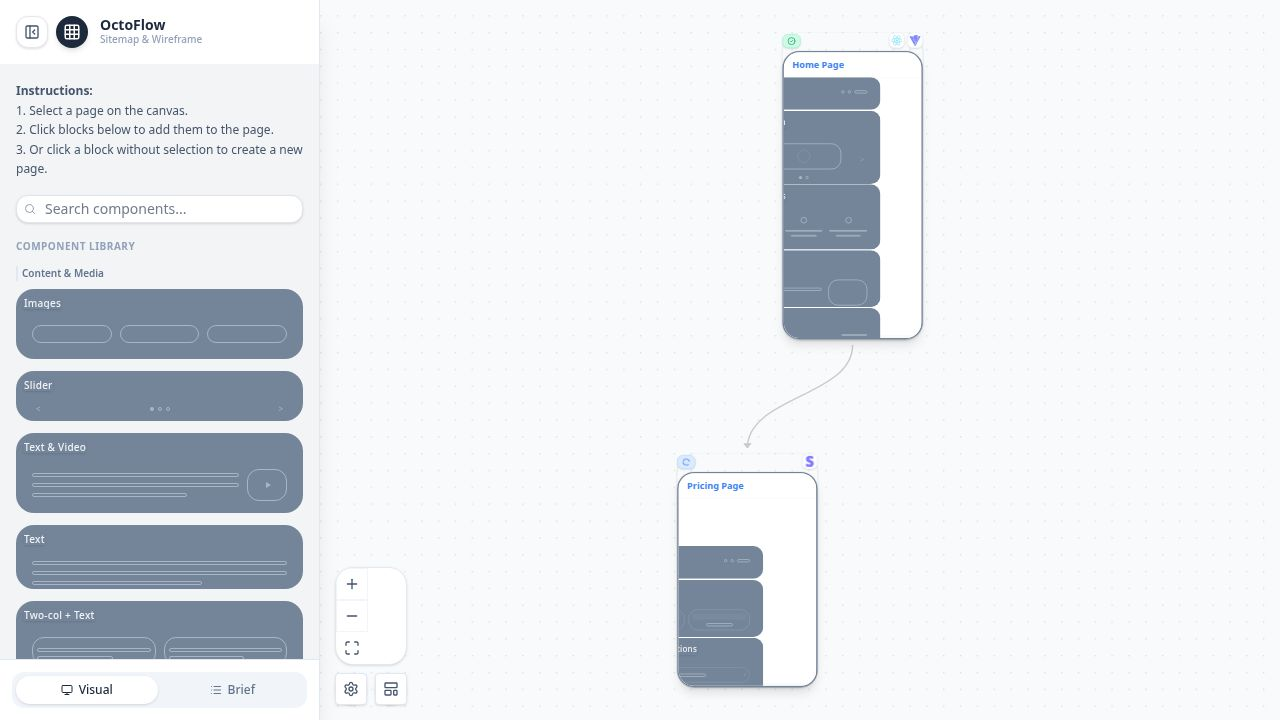
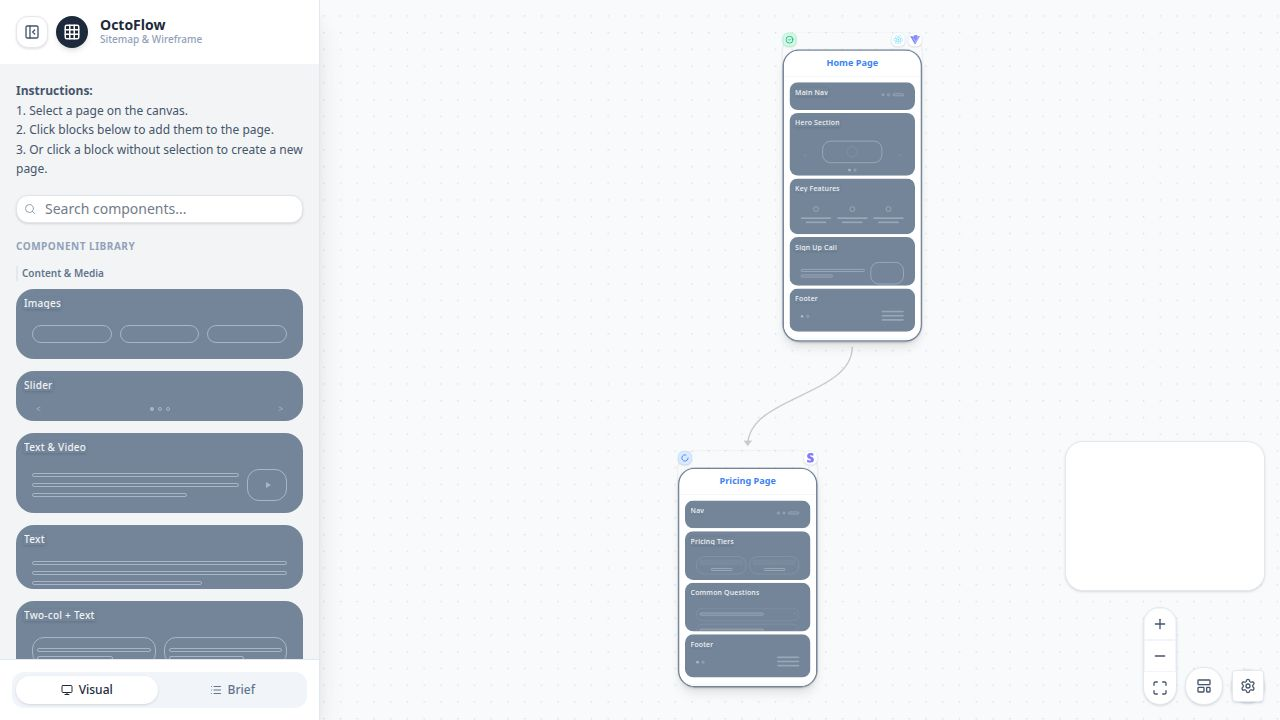
Adapt sidebar to slide in and out on mobile devices
Implement a sliding drawer behavior for the sidebar on mobile screens, with a backdrop for dismissing it, while maintaining the desktop layout.

Replit-Commit-Author: Agent
Replit-Commit-Session-Id: 70141cc7-002a-4657-8351-121d851b9250
Replit-Commit-Checkpoint-Type: full_checkpoint
Replit-Commit-Event-Id: 73cf2a74-1ed2-467a-900d-1f4edbc23d23
Replit-Commit-Screenshot-Url: https://storage.googleapis.com/screenshot-production-us-central1/87ce7664-790f-423c-81b0-285d4f8c534a/70141cc7-002a-4657-8351-121d851b9250/JF4rdde
Replit-Helium-Checkpoint-Created: true

diff --git a/client/src/pages/Board.tsx b/client/src/pages/Board.tsx
@@ -12,7 +12,15 @@ export default function Board() {
   return (
     <ReactFlowProvider>
       <div className="w-screen h-screen overflow-hidden flex bg-slate-50 relative">
-        {/* Toggle Button - hidden when sidebar is open on mobile to avoid overlap with sidebar content */}
+        {/* Mobile Backdrop */}
+        <div 
+            className={`fixed inset-0 bg-slate-900/20 backdrop-blur-sm z-30 md:hidden transition-opacity duration-300 ${
+                sidebarOpen ? 'opacity-100 pointer-events-auto' : 'opacity-0 pointer-events-none'
+            }`}
+            onClick={() => setSidebarOpen(false)}
+        />
+
+        {/* Toggle Button - hidden when sidebar is open on mobile to avoid overlap */}
         <div className={`absolute top-4 left-4 z-50 transition-opacity duration-300 ${sidebarOpen ? 'opacity-0 md:opacity-100 pointer-events-none md:pointer-events-auto' : 'opacity-100'}`}>
             <Button 
                 variant="outline" 
@@ -24,13 +32,21 @@ export default function Board() {
             </Button>
         </div>
 
-        {/* Sidebar with visibility transition - Responsive adjustments */}
+        {/* Sidebar with Drawer behavior on mobile, Push behavior on desktop */}
         <div 
-            className={`h-full absolute md:relative transition-all duration-300 ease-in-out overflow-hidden border-r border-slate-200 bg-white shadow-xl z-40 ${
-                sidebarOpen ? 'w-full md:w-[320px] opacity-100 translate-x-0' : 'w-0 opacity-0 -translate-x-full'
-            }`}
+            className={`
+                h-full bg-white shadow-xl z-40 border-r border-slate-200
+                /* Mobile: Absolute drawer */
+                absolute top-0 left-0 transition-transform duration-300 ease-in-out
+                w-[85vw] max-w-[320px]
+                ${sidebarOpen ? 'translate-x-0' : '-translate-x-full'}
+                
+                /* Desktop: Relative collapsible */
+                md:relative md:transform-none md:transition-all
+                ${sidebarOpen ? 'md:w-[320px] md:opacity-100' : 'md:w-0 md:opacity-0 md:overflow-hidden'}
+            `}
         >
-            <div className="w-screen md:w-[320px] h-full">
+            <div className="w-full h-full min-w-[320px]">
                 <Sidebar />
             </div>
         </div>
